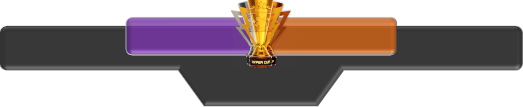
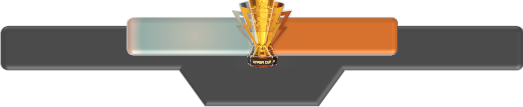
kill feed and colors

diff --git a/src/components/PlayerBar.vue b/src/components/PlayerBar.vue
@@ -30,7 +30,7 @@
 					<g transform="translate(-791.000000, -999.000000)">
 						<g transform="translate(-55.708529, -0.000000)">
 							<g transform="translate(754.000000, 947.992966)">
-								<polygon fill="#C97033" transform="translate(260.622744, 69.507034) scale(1, -1) translate(-260.622744, -69.507034) " points="93 61.8724816 105.024286 51.0070335 416.332343 51.0070335 428.245488 61.8724816 417.32872 88.0070335 103.956467 88.0070335"></polygon>
+								<polygon fill="#a7a7a7" transform="translate(260.622744, 69.507034) scale(1, -1) translate(-260.622744, -69.507034) " points="93 61.8724816 105.024286 51.0070335 416.332343 51.0070335 428.245488 61.8724816 417.32872 88.0070335 103.956467 88.0070335"></polygon>
 							</g>
 						</g>
 					</g>
@@ -65,7 +65,7 @@
 	.playerBar_name{font-size:30px;font-weight:800;grid-column:4 / span 5;grid-row:6 / span 2;position:relative;}
 	.playerBar_name span{position:relative;z-index:10;}
 	.playerBar_name svg{position:absolute;left:0;}
-	.playerBar--red polygon{fill:#313131;}
+	.playerBar--red polygon{fill:#C97033;}
 </style>
 
 <style>

diff --git a/src/components/KillFeed.vue b/src/components/KillFeed.vue
@@ -19,10 +19,10 @@
 
 <style scoped lang="css">
 div {
-	--color-background-dark: #1e1e1e;
+	--color-background-dark: #1f1f1f;
 	--color-text-white: white;
-	--color-team-blue: #0045ff;
-	--color-team-red: #ff0000;
+	--color-team-blue: #a7a7a7;
+	--color-team-red: #C97033;
 	--padding-base: 2px;
 	--font-size: 20px;
 

diff --git a/src/components/Layout.vue b/src/components/Layout.vue
@@ -4,7 +4,7 @@
 		<scoreboard />
 		<team :color="'red'" :team="redTeam" :teamID="0" />
 		<player-bar/>
-		<!-- <kill-feed/> -->
+		<kill-feed/>
 	</div>
 </template>
 
